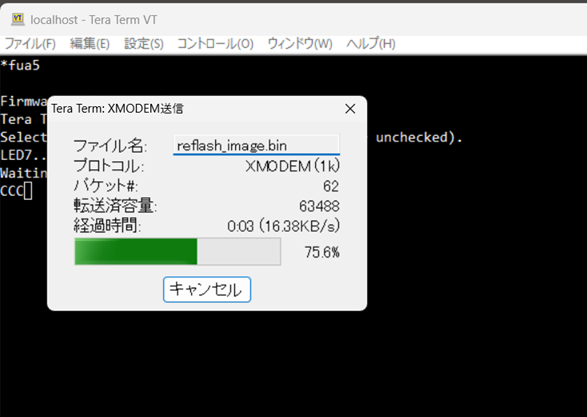
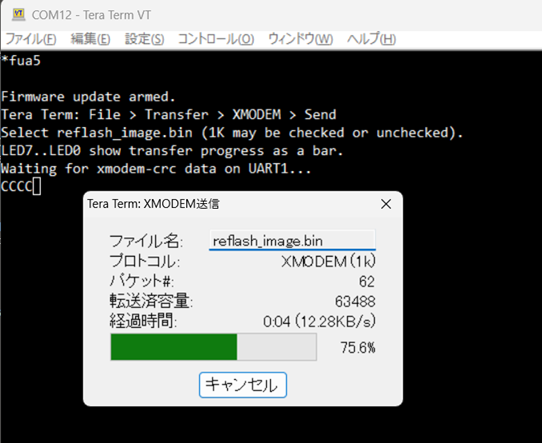
fix: *tq polarity was inverted; 0000 now silences, 0001 restores
Found on hardware by the user: *tq0000 did not stop the heartbeat output,
it started it. My port of Sonora's *tq read the payload as "enable quiet"
where Sonora reads it as "enable telemetry", so the two projects had
opposite polarity for the same command name -- while the commit that
added it claimed to be porting that convention. It was also a double
negative on its own terms: 0000 conventionally means off, not "off-ness
disabled".

Swapped, so this matches Sonora and the obvious reading: *tq0000 = output
off, *tq0001 = output on. Every doc reference and code comment that said
"*tq0000 to resume" moved with it.

The unknown-command reply now spells the polarity out
("*tq0000 (periodic output off) / *tq0001 (on)"), so the next person who
guesses wrong -- the user's first attempt was *tp0000, which is not a
command at all -- learns it from the console instead of the guide.

Verified on board 057 with the rebuilt firmware: *tq0000 -> 0 new console
lines over 6 s, *tq0001 -> 30 lines over 6 s, and *tp0000 prints the new
listing. Host tests 48/48, clean -Full build.

Also replaces the XMODEM screenshot with the corrected retake: COM12 in
the title bar rather than a localhost TCP session, and the real
"XMODEM送信" dialog (protocol XMODEM (1k), packet 62) rather than the
plain File > Send file dialog that the guide explicitly warns against.
The console text is fully visible this time, including the LED progress
line. Alt text and the quoted transfer rate updated to match.

diff --git a/src/console/fw_command.c b/src/console/fw_command.c
@@ -149,7 +149,7 @@ static void print_partition_status(void)
 //
 // The bar is deliberately NOT cleared when the transfer ends: a full bar means the
 // whole payload arrived, and a partial bar shows how far a failed transfer got,
-// which is useful at a glance. LED0 returns to heartbeat duty after *tq0000.
+// which is useful at a glance. LED0 returns to heartbeat duty after *tq0001.
 static void update_progress_leds(uint32_t done, uint32_t total)
 {
     uint8_t lit;
@@ -185,7 +185,7 @@ static void receive_firmware(void)
     fw_update_result_t result;
 
     /* Quiet is one-way from here: neither a successful nor a failed receive
-     * clears it. Only an explicit *tq0000, or a reset (a successful *fca5
+     * clears it. Only an explicit *tq0001, or a reset (a successful *fca5
      * commit), brings periodic output back. */
     s_quiet = true;
 #if HAL_STARTER_ENABLE_TDM_SMOKE_DEMO
@@ -214,7 +214,7 @@ static void receive_firmware(void)
         restart_tdm_after_failed_attempt();
         printf("Type *fua5 to retry.\r\n");
     }
-    printf("Periodic starter output stays off. Type *tq0000 to resume it.\r\n");
+    printf("Periodic starter output stays off. Type *tq0001 to resume it.\r\n");
 }
 
 static void commit_firmware(void)
@@ -245,7 +245,7 @@ static void commit_firmware(void)
         }
     }
     restart_tdm_after_failed_attempt();
-    printf("Periodic starter output stays off. Type *tq0000 to resume it.\r\n");
+    printf("Periodic starter output stays off. Type *tq0001 to resume it.\r\n");
 }
 
 static void process_line(void)
@@ -276,18 +276,22 @@ static void process_line(void)
         print_partition_status();
         return;
     }
-    if (strcmp(s_line, "*tq0000") == 0) {
+    if (strcmp(s_line, "*tq0001") == 0) {
         s_quiet = false;
         printf("\"*tq\" periodic starter output ON\r\n");
         return;
     }
-    if (strcmp(s_line, "*tq0001") == 0) {
+    if (strcmp(s_line, "*tq0000") == 0) {
         s_quiet = true;
         printf("\"*tq\" periodic starter output OFF\r\n");
         return;
     }
 
-    printf("Unknown command. Commands: *fua5, *fca5, ?fp, *tq0000/*tq0001\r\n");
+    /* Spell out the *tq polarity here: the payload is the output enable, so 0000
+     * silences and 0001 restores. Discovering that from the console beats having
+     * to find it in the guide. */
+    printf("Unknown command. Commands: *fua5, *fca5, ?fp,\r\n");
+    printf("  *tq0000 (periodic output off) / *tq0001 (on)\r\n");
 }
 
 static void begin_raw_file_discard(void)

diff --git a/docs/dual_partition_update.md b/docs/dual_partition_update.md
@@ -207,17 +207,19 @@ must not run across NVM CPU stalls.
 
 Periodic output does **not** come back on its own -- not after a successful
 receive, not after a failed receive, and not after a failed commit. It only
-resumes on an explicit `*tq0000`, or a reset (a successful `*fca5` commit). The
+resumes on an explicit `*tq0001`, or a reset (a successful `*fca5` commit). The
 TDM/DMA smoke stream is the one thing that *does* restart automatically after a
 failed receive or a failed commit, since otherwise the demo would stay silently
 dead with no way back short of a reset; that restart is independent of the
 output toggle and happens either way.
 
-Use `*tq0000` / `*tq0001` any time, independent of the update workflow:
+Use `*tq0000` / `*tq0001` any time, independent of the update workflow. The
+payload is the *output enable*, so `0000` silences and `0001` restores (the same
+polarity the sibling Sonora console uses):
 
 ```text
-*tq0001   -- periodic starter output OFF
-*tq0000   -- periodic starter output ON
+*tq0000   -- periodic starter output OFF
+*tq0001   -- periodic starter output ON
 ```
 
 ## 5. Send `reflash_image.bin` with XMODEM
@@ -237,7 +239,7 @@ firmware.X\dist\dsPIC33AK512\production\reflash_image.bin
 Use XMODEM-CRC. **1K may be checked or unchecked** -- both work, and neither
 needs any particular file size.
 
-<img src="images/dual-partition-xmodem-1k-transfer.png" alt="Tera Term sending reflash_image.bin over XMODEM-1K: the console shows *fua5 accepted, the armed instructions, and the receiver's repeated C handshake characters, while the XMODEM Send dialog reports protocol XMODEM (1k), packet 62, 63488 bytes transferred at 16.38 KB/s, 75.6 percent complete" width="640">
+<img src="images/dual-partition-xmodem-1k-transfer.png" alt="Tera Term on COM12 sending reflash_image.bin over XMODEM-1K. The console shows *fua5 accepted, the armed instructions including the LED progress note, and the receiver's repeated C handshake characters; the XMODEM Send dialog reports protocol XMODEM (1k), packet 62, 63488 bytes transferred at 12.28 KB/s, 75.6 percent complete" width="640">
 
 A transfer in progress with **1K** checked. The dialog's packet count and byte
 total are Tera Term's own accounting of what it has sent.
@@ -264,7 +266,7 @@ one step per eighth of the payload, growing from **LED7 toward LED0**. The bar i
 the transfer ends, so it doubles as a result indicator at a glance: a full bar
 means the whole payload was received and programmed, and a partial bar shows how
 far a failed transfer got. LED0 goes back to being the heartbeat indicator after
-`*tq0000`.
+`*tq0001`.
 
 Progress is shown on the LEDs rather than as characters on the console because
 the XMODEM transport owns UART1 for the whole transfer: the sender is waiting for
@@ -297,13 +299,13 @@ Firmware receive: PASS
   payload crc  : ....
 Validation: PASS (DBFW manifest + xmodem-crc + flash read-back)
 Type *fca5 to activate the validated partition.
-Periodic starter output stays off. Type *tq0000 to resume it.
+Periodic starter output stays off. Type *tq0001 to resume it.
 ```
 
 At this point, the new firmware is present only in the inactive partition. The
 currently running partition remains selected until the commit command. Periodic
 output stays off either way (it does not resume on its own after a PASS or a
-FAIL); type `*tq0000` if you want it back before deciding whether to commit.
+FAIL); type `*tq0001` if you want it back before deciding whether to commit.
 
 > [!NOTE]
 > The commit authorization lives only in RAM. If the board resets or loses power
@@ -386,8 +388,8 @@ Other useful commands, usable any time on UART1:
 | Command | Effect |
 | --- | --- |
 | `?fp` | Print which partition is active, both BTSEQ words, and both UCA states. Read-only. |
-| `*tq0001` | Turn periodic starter output off, independent of `*fua5`/`*fca5`. |
-| `*tq0000` | Turn periodic starter output back on. |
+| `*tq0000` | Turn periodic starter output off, independent of `*fua5`/`*fca5`. |
+| `*tq0001` | Turn periodic starter output back on. |
 
 ## Troubleshooting
 

diff --git a/README.md b/README.md
@@ -296,7 +296,7 @@ of `[0x800000, 0x840000)` and contains no UCA, FBOOT, or configuration words, so
 it can never change a partition's fuses. Those are provisioned once by the
 verified bundle over PKOB4.
 
-<img src="docs/images/dual-partition-xmodem-1k-transfer.png" alt="Tera Term sending reflash_image.bin to the inactive partition over XMODEM-1K: the console shows *fua5 accepted and the receiver's repeated C handshake characters, while the XMODEM Send dialog reports protocol XMODEM (1k), packet 62, 63488 bytes transferred at 16.38 KB/s, 75.6 percent complete" width="640">
+<img src="docs/images/dual-partition-xmodem-1k-transfer.png" alt="Tera Term on COM12 sending reflash_image.bin to the inactive partition over XMODEM-1K. The console shows *fua5 accepted, the armed instructions including the LED progress note, and the receiver's repeated C handshake characters; the XMODEM Send dialog reports protocol XMODEM (1k), packet 62, 63488 bytes transferred at 12.28 KB/s, 75.6 percent complete" width="640">
 
 A transfer in progress. The console has accepted `*fua5` and is emitting the
 XMODEM-CRC handshake character `C` until the sender starts; the dialog confirms
